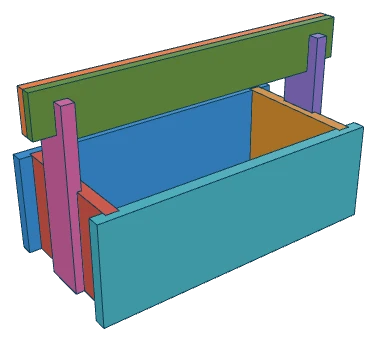
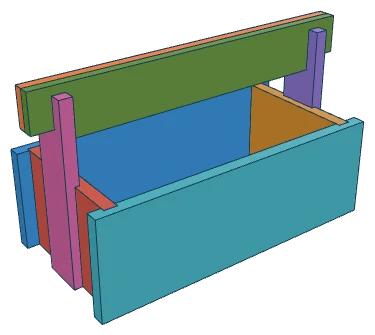
Deepen handle notches and correct end-grain screw paths

diff --git a/MISC.md b/MISC.md
@@ -95,7 +95,7 @@ The optional `joint-longitudinal` and `joint-transverse` views must appear toget
 
 The optional `echo("PART_DRAWINGS_V1", rows)` uses rows `[id, title, quantity, notes, sourceRGB, views]`. Each row selects exactly one colored physical mesh from the same assembled pass; missing or ambiguous color matches fail the drawing update. Its one to three views use the same axes, dimensions, and section format, with unique local IDs. A sixth view field can contain dashed reference lines as pairs of 3D witness points; use `[]` for the fifth field when no section is needed. These guides distinguish machining limits, original blank faces, glue edges, and bore axes from real mesh edges. The UI presents a main view and enlarged details at independent scales; users select a part sheet without changing the model's `Part` control.
 
-Group identical pieces by finished geometry and quantity. The tote has five sheets by default and six when the handle laminations differ in thickness. The bottom sheet represents two resawn halves, not an extra glued panel. Side sheets explicitly mark the stopped groove's full cutting run even where its ends overlap the end dados. End sheets show inside/outside faces and the web between the opposing groove and riser housing. When optional bores are enabled, riser and handle sheets dimension their diameter and axis location while retaining the source's unconfirmed-layout note. Finished part dimensions stay separate from the cut list's rough-stock, shared-parent, resaw, and machining allowances.
+Group identical pieces by finished geometry and quantity. The tote has five sheets by default and six when the handle laminations differ in thickness. The bottom sheet represents two resawn halves, not an extra glued panel. Side sheets explicitly mark the stopped groove's full cutting run even where its ends overlap the end dados. End sheets show inside/outside faces and the web between the opposing groove and riser housing. Optional `End_grain_screw_bores` run along X through the riser's outside face, below the slot floor, into the handle's notch-shoulder end grain. They are centered across the glued handle width and disabled by default. Diameter (5/32 inch), height (half the notch depth above the handle underside), and `Screw_embedment` (1 inch from the shoulder) remain adjustable placeholders. The riser and handle sheets dimension the bore path and blind depth; only laminations actually intersected by the pilot receive a bore detail. Drill after laminating; no screws, countersinks, or stepped clearance/pilot holes are modeled. Finished part dimensions stay separate from the cut list's rough-stock, shared-parent, resaw, and machining allowances.
 
 `compileDrawings` runs the private pass in the same cancellable worker job as the model. Visible linework is extracted from the actual compiled physical-part meshes: coplanar triangle diagonals are discarded, seams between parts are retained, and edge intervals behind projected triangles are removed geometrically. Drawings currently show visible edges only, not dashed hidden lines. The sheet renderer consumes the resulting line segments and dimension witnesses without depending on SCAD syntax, leaving room for a future STEP geometry adapter. STEP import is not implemented yet.
 
@@ -109,7 +109,7 @@ Set `customizer` to `{}` to enable controls from the source's OpenSCAD Customize
 
 Optional `customizer.conditions` maps a dependent field to `{ "parameter": "controlling_field", "value": "enabled_value" }`. Use this only for dependencies established by the source. The saw guide enables the ratio and angle inputs in their respective modes. These conditions live in metadata; parameter defaults, descriptions, and ranges remain in the SCAD file.
 
-Optional `customizer.units` is `mm` (the default) or `inches` and labels dimensional inputs without converting source values. Displayed mesh bounds, section positions and STL coordinates remain millimetres. The tool tote uses inch inputs and scales its geometry in the SCAD source. It exposes assembly, exploded, bridle-detail and individual-part views through its `Part` parameter, with the explosion distance and optional screw dimensions enabled only when applicable. Its source includes the stopped bottom grooves and confirmed joinery defaults. Each handle underside notch continues from the riser's inner edge through the handle end, giving both laminations one continuous bearing surface on the riser-slot floor. `Handle_notch_depth` (0.5 inches by default) controls that shared shoulder; there is no independently raised tip. The default shoulder and slot floor are both at Z=9 inches, the handle top is Z=11.5 inches, and the riser top is Z=10.75 inches. Cut-list blanks retain their full 3-inch height. The default assembly STL is generated with the same OpenRSCAD engine as live edits; use individual-part views for fabrication exports because the nominal assembly has touching components. Keep the source synchronized with the authored tote model when revising it.
+Optional `customizer.units` is `mm` (the default) or `inches` and labels dimensional inputs without converting source values. Displayed mesh bounds, section positions and STL coordinates remain millimetres. The tool tote uses inch inputs and scales its geometry in the SCAD source. It exposes assembly, exploded, bridle-detail and individual-part views through its `Part` parameter, with the explosion distance and optional screw dimensions enabled only when applicable. Its source includes the stopped bottom grooves and confirmed joinery defaults. Each handle underside notch continues from the riser's inner edge through the handle end, giving both laminations one continuous bearing surface on the riser-slot floor. `Handle_notch_depth` (0.75 inches by default) controls that shared shoulder; there is no independently raised tip. The default shoulder and slot floor are both at Z=9 inches, the handle middle underside is Z=8.25 inches, the top is Z=11.25 inches, and the riser top is Z=10.75 inches. Cut-list blanks retain their full 3-inch height. The default assembly STL is generated with the same OpenRSCAD engine as live edits; use individual-part views for fabrication exports because the nominal assembly has touching components. Keep the source synchronized with the authored tote model when revising it.
 
 Optional `customizer.outputLabel` displays the source's `echo()` output in a collapsible panel. These entries compile once when loading their parameters to populate the default output while the committed mesh remains visible; subsequent successful updates replace the output alongside the model. Pending or failed changes label retained output as belonging to previous settings. For the tote’s grouped woodworking table, use the `customizer.cutList` contract below; `Show_cut_list` in the source controls its visibility.
 
